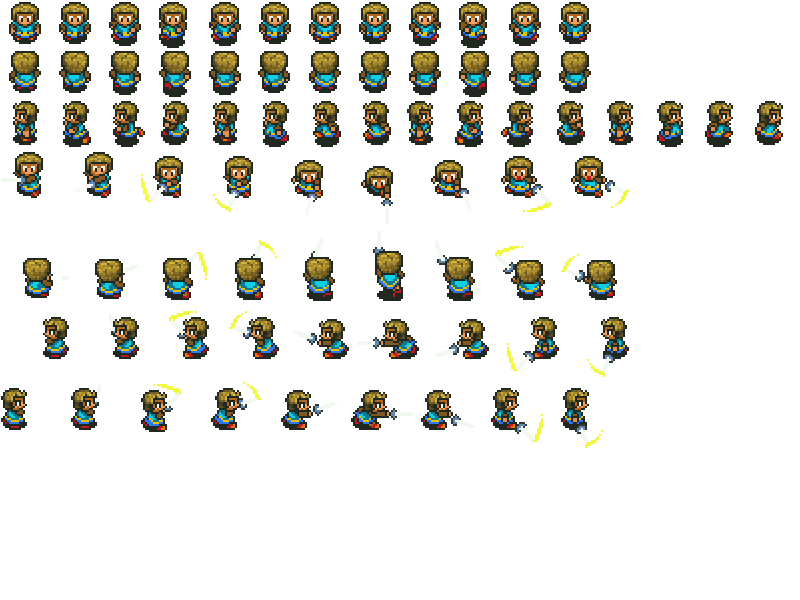
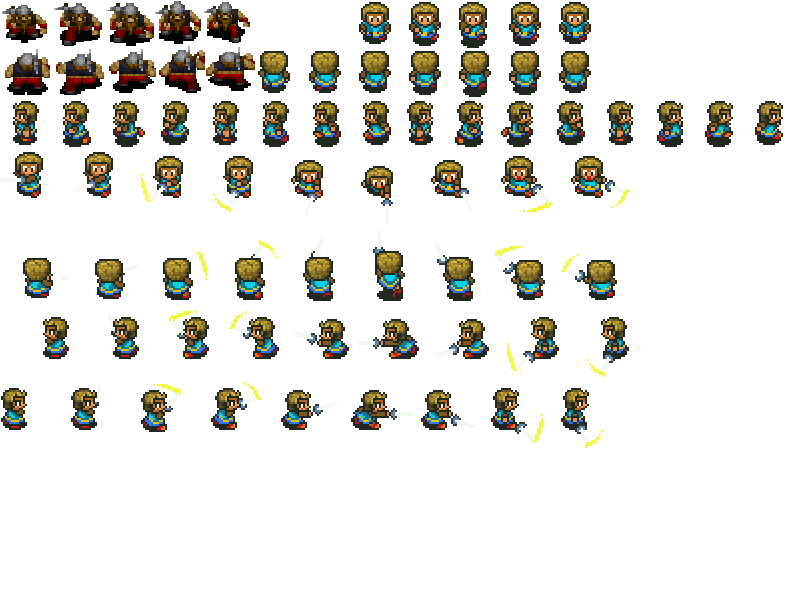
added left/up/right/down movement

Changed region(s): [[0.0, 0.0, 0.4375, 0.18]]

diff --git a/Silesian Undergrounds/Silesian Undergrounds/Engine/Player/Player.cs b/Silesian Undergrounds/Silesian Undergrounds/Engine/Player/Player.cs
@@ -16,21 +16,32 @@ namespace Silesian_Undergrounds.Engine.Player
 
         public Player(Vector2 position, Vector2 size) : base(position, size)
         {
-            FramesPerSecond = 10;
+            FramesPerSecond = 5;
 
             //Adds all the players animations
-            AddAnimation(12, 0, 0, "Down", 50, 50, new Vector2(0, 0));
-            AddAnimation(1, 0, 0, "IdleDown", 50, 50, new Vector2(0, 0));
-            AddAnimation(12, 50, 0, "Up", 50, 50, new Vector2(0, 0));
-            AddAnimation(1, 50, 0, "IdleUp", 50, 50, new Vector2(0, 0));
-            AddAnimation(8, 100, 0, "Left", 50, 50, new Vector2(0, 0));
-            AddAnimation(1, 100, 0, "IdleLeft", 50, 50, new Vector2(0, 0));
-            AddAnimation(8, 100, 8, "Right", 50, 50, new Vector2(0, 0));
-            AddAnimation(1, 100, 8, "IdleRight", 50, 50, new Vector2(0, 0));
-            AddAnimation(9, 150, 0, "AttackDown", 70, 80, new Vector2(0, 0));
-            AddAnimation(9, 230, 0, "AttackUp", 70, 80, new Vector2(-13, -27));
-            AddAnimation(9, 310, 0, "AttackLeft", 70, 70, new Vector2(-30, -5));
-            AddAnimation(9, 380, 0, "AttackRight", 70, 70, new Vector2(+15, -5));
+            // AddAnimation(int frames, int yPos, int xStartFrame, string name, int width, int height, Vector2 offset)
+            // frames - number of frames of animation 
+            // y position is a position from left right cornder
+            // xStart frame is the x - sum of all widths
+            // 80x80
+            
+            AddAnimation(5, 25, 313, "Down", 22, 22, new Vector2(0, 0));
+            AddAnimation(1, 25, 313, "IdleDown", 22, 22, new Vector2(0, 0));
+
+            //margins abovw and to the right/left are 25
+            AddAnimation(5, 25, 25, "Up", 22, 22, new Vector2(0, 0));
+            AddAnimation(1, 25, 25, "IdleUp", 22, 22, new Vector2(0, 0));
+
+            AddAnimation(5, 25, 169, "Left", 22, 22, new Vector2(0, 0));
+            AddAnimation(1, 25, 169, "IdleLeft", 22, 22, new Vector2(0, 0));
+
+            AddAnimation(5, 25, 169, "Right", 22, 22, new Vector2(0, 0));
+            AddAnimation(1, 25, 169, "IdleRight", 22, 22, new Vector2(0, 0));
+
+            //AddAnimation(9, 150, 0, "AttackDown", 70, 80, new Vector2(0, 0));
+           // AddAnimation(9, 230, 0, "AttackUp", 70, 80, new Vector2(-13, -27));
+           // AddAnimation(9, 310, 0, "AttackLeft", 70, 70, new Vector2(-30, -5));
+           // AddAnimation(9, 380, 0, "AttackRight", 70, 70, new Vector2(+15, -5));
             //Plays our start animation
             PlayAnimation("IdleDown");
         }
@@ -38,7 +49,7 @@ namespace Silesian_Undergrounds.Engine.Player
         // Loads content related to the player
         public void LoadContent(ContentManager content)
         {
-            texture = content.Load<Texture2D>("playerSheet");
+            texture = content.Load<Texture2D>("minerCharacter");
         }
 
 
@@ -118,60 +129,60 @@ namespace Silesian_Undergrounds.Engine.Player
 
                 }
             }
-            if (keyState.IsKeyDown(Keys.Space))
-            {
-                if (currentAnimation.Contains("Down"))
-                {
-                    Debug.WriteLine("Space down!");
-                    PlayAnimation("AttackDown");
-                    attacking = true;
-                    currentDirection = movementDirection.down;
-                }
-                if (currentAnimation.Contains("Left"))
-                {
-                    Debug.WriteLine("AttackLefts!");
-                    PlayAnimation("AttackLeft");
-                    attacking = true;
-                    currentDirection = movementDirection.left;
-                }
-                if (currentAnimation.Contains("Right"))
-                {
-                    Debug.WriteLine("AttackRight!");
-                    PlayAnimation("AttackRight");
-                    attacking = true;
-                    currentDirection = movementDirection.right;
-                }
-                if (currentAnimation.Contains("Up"))
-                {
-                    Debug.WriteLine("AttackUp!");
-                    PlayAnimation("AttackUp");
-                    attacking = true;
-                    currentDirection = movementDirection.up;
-                }
-            }
-            else if (!attacking)
-            {
-                if (currentAnimation.Contains("Left"))
-                {
-                    Debug.WriteLine("IdleLeft!");
-                    PlayAnimation("IdleLeft");
-                }
-                if (currentAnimation.Contains("Right"))
-                {
-                    Debug.WriteLine("IdleRight!");
-                    PlayAnimation("IdleRight");
-                }
-                if (currentAnimation.Contains("Up"))
-                {
-                    Debug.WriteLine("IdleUp!");
-                    PlayAnimation("IdleUp");
-                }
-                if (currentAnimation.Contains("Down"))
-                {
-                    Debug.WriteLine("IdleDown!");
-                    PlayAnimation("IdleDown");
-                }
-            }
+            //if (keyState.IsKeyDown(Keys.Space))
+            //{
+            //    if (currentAnimation.Contains("Down"))
+            //    {
+            //        Debug.WriteLine("Space down!");
+            //        PlayAnimation("AttackDown");
+            //        attacking = true;
+            //        currentDirection = movementDirection.down;
+            //    }
+            //    if (currentAnimation.Contains("Left"))
+            //    {
+            //        Debug.WriteLine("AttackLefts!");
+            //        PlayAnimation("AttackLeft");
+            //        attacking = true;
+            //        currentDirection = movementDirection.left;
+            //    }
+            //    if (currentAnimation.Contains("Right"))
+            //    {
+            //        Debug.WriteLine("AttackRight!");
+            //        PlayAnimation("AttackRight");
+            //        attacking = true;
+            //        currentDirection = movementDirection.right;
+            //    }
+            //    if (currentAnimation.Contains("Up"))
+            //    {
+            //        Debug.WriteLine("AttackUp!");
+            //        PlayAnimation("AttackUp");
+            //        attacking = true;
+            //        currentDirection = movementDirection.up;
+            //    }
+            //}
+            //else if (!attacking)
+            //{
+            //    if (currentAnimation.Contains("Left"))
+            //    {
+            //        Debug.WriteLine("IdleLeft!");
+            //        PlayAnimation("IdleLeft");
+            //    }
+            //    if (currentAnimation.Contains("Right"))
+            //    {
+            //        Debug.WriteLine("IdleRight!");
+            //        PlayAnimation("IdleRight");
+            //    }
+            //    if (currentAnimation.Contains("Up"))
+            //    {
+            //        Debug.WriteLine("IdleUp!");
+            //        PlayAnimation("IdleUp");
+            //    }
+            //    if (currentAnimation.Contains("Down"))
+            //    {
+            //        Debug.WriteLine("IdleDown!");
+            //        PlayAnimation("IdleDown");
+            //    }
+            //}
             currentDirection = movementDirection.standstill;
 
         }

diff --git a/Silesian Undergrounds/Silesian Undergrounds/Engine/Common/AnimatedGameObject.cs b/Silesian Undergrounds/Silesian Undergrounds/Engine/Common/AnimatedGameObject.cs
@@ -56,7 +56,10 @@ namespace Silesian_Undergrounds.Engine.Common
 
             for (int i = 0; i < frames; i++)
             {
-                Rectangles[i] = new Rectangle((i + xStartFrame) * width, yPos, width, height);
+                //new Rectangle(x, y, width, height);
+                //new Rectangle(xStartFrame, yPos, width, height)
+                // 
+                Rectangles[i] = new Rectangle(xStartFrame, yPos + (i* (height + (2 * yPos))), width, height);
             }
             animationDic.Add(name, Rectangles);
             animOffsets.Add(name, offset);
